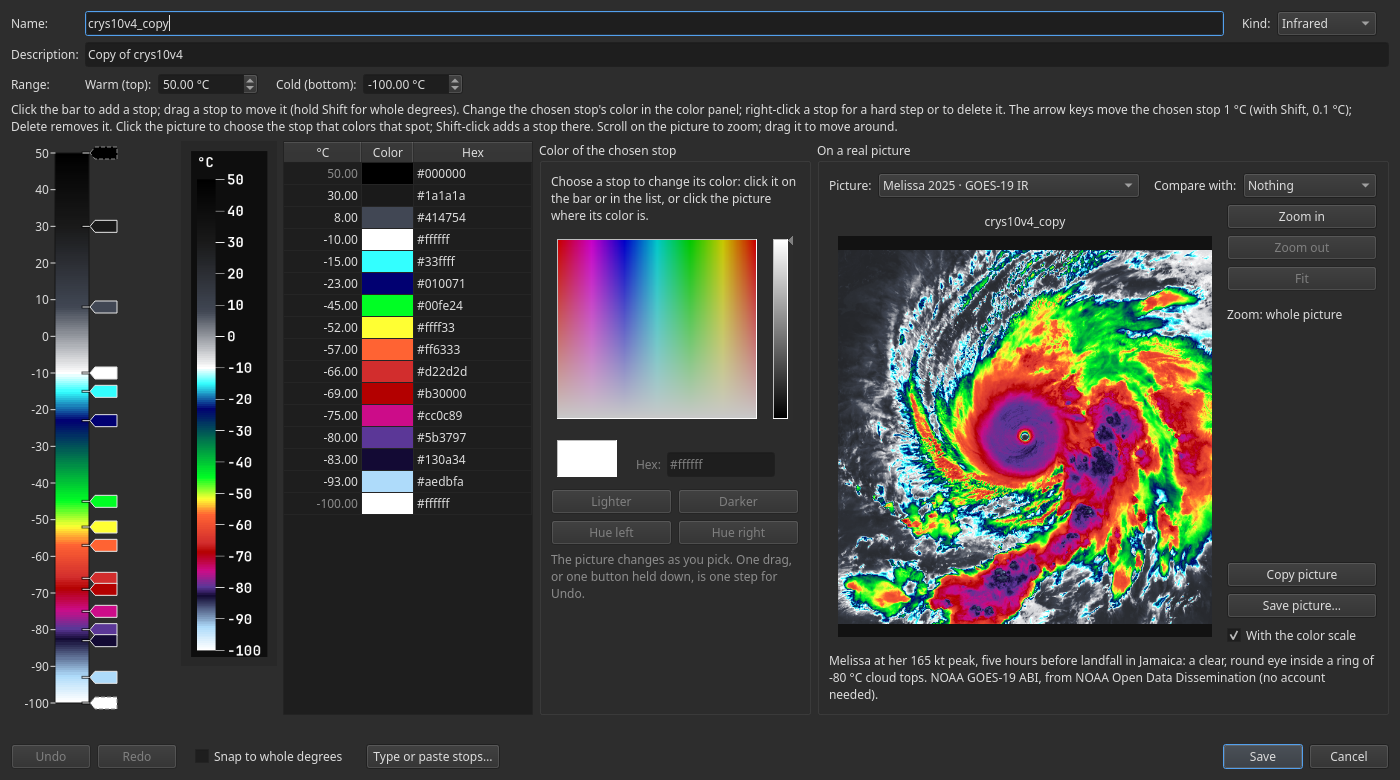
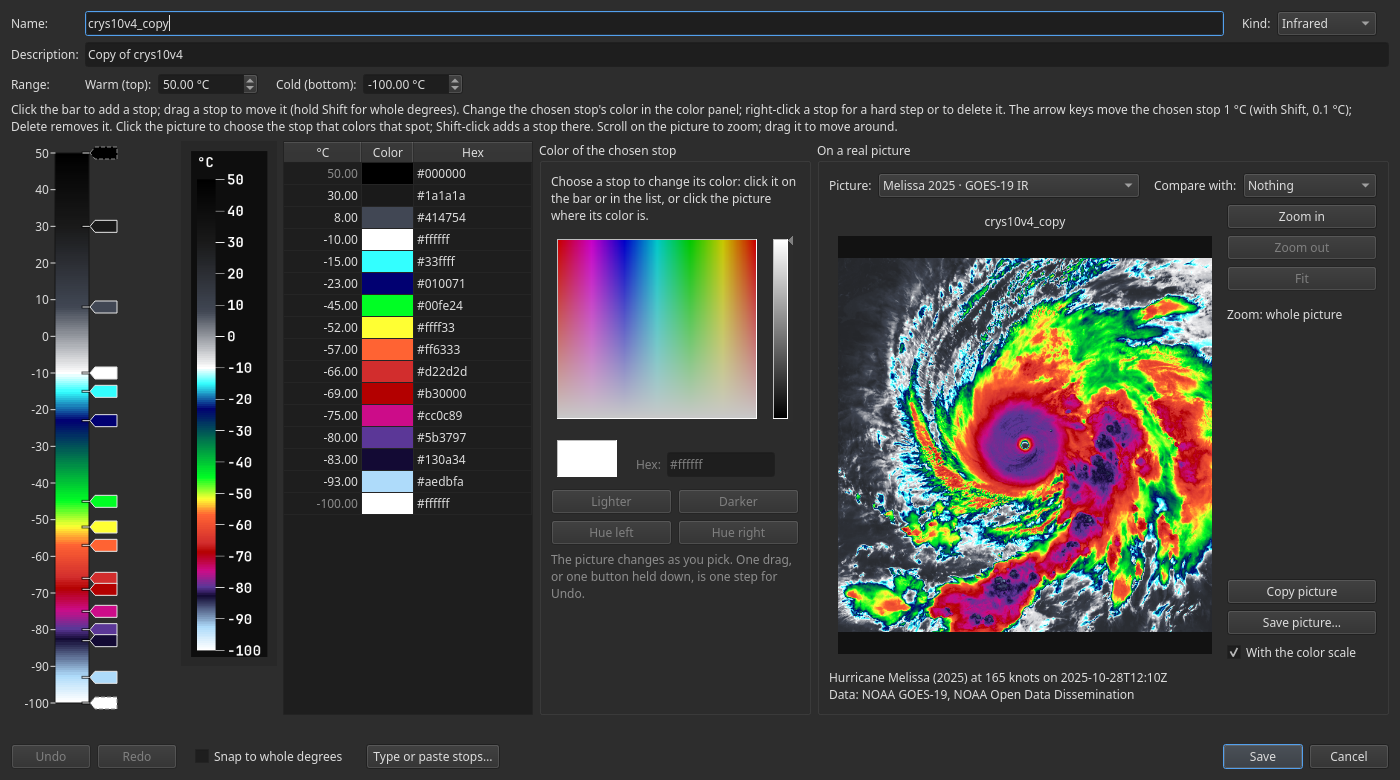
Update from tcviz f59c968

Changed region(s): [[0.5836, 0.3077, 0.9829, 0.8923]]

diff --git a/tcviz/colortable_preview.py b/tcviz/colortable_preview.py
@@ -444,11 +444,6 @@ def _sample_label(raw):
     return " · ".join(p for p in (storm, taken) if p)
 
 
-def _sentence(text):
-    text = text.strip()
-    return text if text.endswith((".", "!", "?")) else f"{text}."
-
-
 def _when_words(when):
     try:
         return datetime.datetime.fromisoformat(str(when).replace("Z", "+00:00")).strftime("%Y-%m-%d %H:%M UTC")
@@ -482,9 +477,10 @@ def load_bundled(sample, max_pixels=MAX_PIXELS):
     band = str(raw.get("band") or "")
     if picture_kind(band, units) != sample.kind:
         band = "WV" if sample.kind == "wv" else "IR"
-    # each its own sentence: a credit like "... from NOAA Open Data Dissemination (no account
-    # needed)" has no full stop, and the editor puts more after it
-    note = " ".join(_sentence(p) for p in (sample.description, sample.credit) if p.strip()) or None
+    # the title ("Hurricane Melissa (2025) at 165 knots on 2025-10-28T12:10Z") and the data
+    # source each on a line of its own, as the author asked (2026-10-03); neither ends in a
+    # full stop, so they are not run together into one sentence
+    note = "\n".join(p.strip() for p in (sample.description, sample.credit) if p.strip()) or None
     return PreviewSource(values, band=band, label=sample.label, max_pixels=max_pixels, units=units, note=note)
 
 

diff --git a/tests/test_colortable_edition.py b/tests/test_colortable_edition.py
@@ -349,7 +349,7 @@ def test_the_picture_box_lists_the_bundled_samples(qapp, editor_edition, monkeyp
     assert items == ["Melissa 2025 · GOES-19 IR", "Melissa 2025 · GOES-19 water vapor"]
     assert d.picture_combo.currentData() == "bundled:melissa_ir"
     assert d.picture_combo.itemData(0, 3) == SAMPLES[0]["description"]          # Qt.ToolTipRole
-    assert d.picture_note.text().startswith(SAMPLES[0]["description"] + " Picture: NOAA GOES-19.")
+    assert d.picture_note.text().startswith(SAMPLES[0]["description"] + "\nPicture: NOAA GOES-19.")
     assert d._preview.full_shape == (40, 40) and not d._preview.water_vapor
     d._on_picture_combo(1)
     assert d.picture_combo.currentData() == "bundled:melissa_wv" and d._preview.water_vapor

diff --git a/tcviz_gui/pages/colortable_editor_dialog.py b/tcviz_gui/pages/colortable_editor_dialog.py
@@ -1117,7 +1117,7 @@ class ColortableEditorDialog(QDialog):
                              "the colors are exact.")
             if source.water_vapor:
                 notes.append("On a water-vapor picture every table is drawn from 0 to -90 °C.")
-            self.picture_note.setText(" ".join(notes))
+            self.picture_note.setText("\n".join(notes))           # one line each, under the title
         self._fill_picture_combo()
         self._schedule_refresh()
 

diff --git a/README.md b/README.md
@@ -94,33 +94,33 @@ The program comes with 24 real satellite pictures of storms to try your tables o
 
 **Infrared:**
 
-- **Melissa, 2025** (Atlantic; GOES-19 ABI, 2.3 km pixels): Melissa at her 165 kt peak, five hours before landfall in Jamaica: a clear, round eye inside a ring of -80 °C cloud tops.
-- **Polo, 2026** (East Pacific; NOAA-20 VIIRS, 375 m pixels): Polo at its 155 kt peak, seen almost straight down by NOAA-20: a warm eye near +23 °C in a solid ring of -70 to -80 °C cloud, at 375 m.
-- **Milton, 2024** (Atlantic; GOES-16 ABI, 2.6 km pixels): Milton at its 155 kt peak in the Gulf: a pinhole eye only about 12 km across, a few pixels wide, inside -80 °C tops.
-- **Nolo, 2026** (Central Pacific; NOAA-20 VIIRS, 375 m pixels): Nolo at its 135 kt peak southwest of Hawaii, at night: a wide, round eye about 50 km across, with eyewall tops as cold as -89 °C, at 375 m.
-- **Milton, 2024** (Atlantic; NOAA-21 VIIRS, 375 m pixels): Milton near its 155 kt peak in the Gulf, seen by NOAA-21 at 375 m: a pinhole eye about 14 km across, warmer than +20 °C, inside a ring of -80 °C tops.
-- **Polo, 2026** (East Pacific; NOAA-21 VIIRS, 375 m pixels): Polo at night, strengthening fast from 120 to 140 kt twelve hours before the daytime Polo sample: a small eye about 12 km across in a ring of -78 °C tops, at 375 m.
-- **Haiyan, 2013** (West Pacific; S-NPP VIIRS, 375 m pixels): Haiyan near its 170 kt peak, four hours before landfall in the Philippines: 92% of the cloud within 150 km of the center is at or below -81 °C (Dvorak's CDG), around a clear eye; the swath ends in the west of the box.
-- **Haiyan, 2013** (West Pacific; Terra MODIS, 1.0 km pixels): Haiyan at 165 kt, seven hours before landfall in the Philippines, at 1 km: 92% of the cloud within 150 km of the center is at or below -81 °C (Dvorak's CDG), around a clear eye.
-- **Yutu, 2018** (West Pacific; GCOM-C SGLI, 250 m pixels): Yutu at its 155 kt peak, hours before its eye crossed Tinian, at 250 m: a clear eye about 40 km across in -82 °C tops; SGLI's scenes leave the box's south and east edges empty.
-- **Nepartak, 2016** (West Pacific; Aqua MODIS, 1.0 km pixels): Nepartak near its 150 kt peak southeast of Taiwan, at 1 km: a small, clear eye about 17 km across and warmer than +28 °C, in a ring of -80 °C tops.
-- **Mocha, 2023** (North Indian Ocean; NOAA-20 VIIRS, 375 m pixels): Mocha at 130 kt and strengthening in the Bay of Bengal, half a day before landfall in Myanmar: 89% of the cloud within 150 km of the center is at or below -81 °C (Dvorak's CDG), around a small cloud-filled eye.
-- **Narelle, 2026** (South Pacific; NOAA-21 VIIRS, 375 m pixels): Narelle at about 95 kt and strengthening fast in the Coral Sea: 69% of the cloud within 150 km of the center is at or below -81 °C (Dvorak's CDG), in a compact central dense overcast with tops to -98 °C.
-- **Genevieve, 2026** (East Pacific; GOES-18 ABI, 2.6 km pixels): Genevieve near its 140 kt peak: a clear eye about 35 km across inside a thick ring of -70 to -76 °C cloud tops.
-- **Lala, 2026** (Central Pacific; GOES-18 ABI, 3.0 km pixels): Lala at its 115 kt peak west of Hawaii: a small eye about 33 km across in a compact ring of cloud tops no colder than -74 °C.
-- **Rachel, 2026** (East Pacific; GOES-18 ABI, 2.9 km pixels): Tropical Storm Rachel at 60 kt, six hours before it became a hurricane: a big central dense overcast with tops below -90 °C, the center near its northern edge.
-- **Katrina, 2005** (Atlantic; GOES-12 Imager, 4.5 km pixels): Katrina at its 150 kt peak in the Gulf, the day before landfall in Louisiana: a clear eye in a wide ring of cold cloud, from GOES-12 on NCEI's 4 km GridSat-GOES grid.
-- **Elida, 2026** (East Pacific; GOES-18 ABI, 2.4 km pixels): Tropical Storm Elida at 55 kt, ragged and sheared: its center sits under ragged cloud between bursts of thunderstorms, the biggest, with tops near -88 °C, about 300 km to the south-southwest.
-- **Five (later Edouard), 2026** (Atlantic; GOES-19 ABI, 2.9 km pixels): Tropical Depression Five off Louisiana at 30 kt, six hours before it became Tropical Storm Edouard: a loose curl of showers and a few small thunderstorms near the center, with no organized core.
-- **Fausto, 2026** (Central Pacific; GOES-18 ABI, 2.7 km pixels): What was left of Fausto north of Hawaii, hours after it became a 30 kt remnant low: a bare swirl of warm low cloud with no thunderstorms at its center.
+- **Hurricane Melissa (2025) at 165 knots on 2025-10-28T12:10Z** (Atlantic; GOES-19 ABI, 2.3 km pixels)
+- **Hurricane Polo (2026) at 150 knots on 2026-09-22T20:07Z** (East Pacific; NOAA-20 VIIRS, 375 m pixels)
+- **Hurricane Milton (2024) at 155 knots on 2024-10-07T20:00Z** (Atlantic; GOES-16 ABI, 2.6 km pixels)
+- **Hurricane Nolo (2026) at 135 knots on 2026-09-28T12:09Z** (Central Pacific; NOAA-20 VIIRS, 375 m pixels)
+- **Hurricane Milton (2024) at 155 knots on 2024-10-07T19:19Z** (Atlantic; NOAA-21 VIIRS, 375 m pixels)
+- **Hurricane Polo (2026) at 125 knots on 2026-09-22T08:03Z** (East Pacific; NOAA-21 VIIRS, 375 m pixels)
+- **Super Typhoon Haiyan (2013) at 170 knots on 2013-11-07T16:19Z** (West Pacific; S-NPP VIIRS, 375 m pixels)
+- **Super Typhoon Haiyan (2013) at 165 knots on 2013-11-07T13:49Z** (West Pacific; Terra MODIS, 1.0 km pixels)
+- **Super Typhoon Yutu (2018) at 155 knots on 2018-10-24T12:31Z** (West Pacific; GCOM-C SGLI, 250 m pixels)
+- **Super Typhoon Nepartak (2016) at 150 knots on 2016-07-06T04:50Z** (West Pacific; Aqua MODIS, 1.0 km pixels)
+- **Cyclone Mocha (2023) at 135 knots on 2023-05-13T19:52Z** (North Indian Ocean; NOAA-20 VIIRS, 375 m pixels)
+- **Cyclone Narelle (2026) at 95 knots on 2026-03-18T15:22Z** (South Pacific; NOAA-21 VIIRS, 375 m pixels)
+- **Hurricane Genevieve (2026) at 140 knots on 2026-07-27T08:40Z** (East Pacific; GOES-18 ABI, 2.6 km pixels)
+- **Hurricane Lala (2026) at 115 knots on 2026-08-19T05:20Z** (Central Pacific; GOES-18 ABI, 3.0 km pixels)
+- **Tropical Storm Rachel (2026) at 60 knots on 2026-09-30T00:00Z** (East Pacific; GOES-18 ABI, 2.9 km pixels)
+- **Hurricane Katrina (2005) at 150 knots on 2005-08-28T17:45Z** (Atlantic; GOES-12 Imager, 4.5 km pixels)
+- **Tropical Storm Elida (2026) at 55 knots on 2026-07-17T03:40Z** (East Pacific; GOES-18 ABI, 2.4 km pixels)
+- **Tropical Depression Five (2026) at 30 knots on 2026-08-31T18:00Z** (Atlantic; GOES-19 ABI, 2.9 km pixels)
+- **Remnant Low Fausto (2026) at 30 knots on 2026-07-29T20:30Z** (Central Pacific; GOES-18 ABI, 2.7 km pixels)
 
 **Water vapor:**
 
-- **Melissa, 2025** (Atlantic; GOES-19 ABI, 2.3 km pixels): Melissa at her 165 kt peak in upper-level water vapor: the eye in a broad moist shield, with outflow cirrus fanning out to its north and west.
-- **Milton, 2024** (Atlantic; GOES-16 ABI, 2.6 km pixels): Milton at 135 kt, about 12 hours before landfall in Florida: dry air to its west and south wrapping in toward the core.
-- **Genevieve, 2026** (East Pacific; GOES-18 ABI, 2.7 km pixels): Genevieve at 115 kt and strengthening fast, in mid-level water vapor: a small eye, moist spiral bands and drier air to the northwest.
-- **Lowell, 2026** (Central Pacific; GOES-18 ABI, 2.3 km pixels): Lowell at 130 kt in lower-level water vapor: a compact moist core with an eye, surrounded by very dry air.
-- **Katrina, 2005** (Atlantic; GOES-12 Imager, 4.5 km pixels): Katrina at her 150 kt peak in water vapor, from GOES-12 on NCEI's 4 km GridSat-GOES grid: the eye in a broad moist shield, dry air to the west.
+- **Hurricane Melissa (2025) at 165 knots on 2025-10-28T12:00Z** (Atlantic; GOES-19 ABI, 2.3 km pixels)
+- **Hurricane Milton (2024) at 135 knots on 2024-10-09T12:00Z** (Atlantic; GOES-16 ABI, 2.6 km pixels)
+- **Hurricane Genevieve (2026) at 115 knots on 2026-07-26T18:40Z** (East Pacific; GOES-18 ABI, 2.7 km pixels)
+- **Hurricane Lowell (2026) at 130 knots on 2026-09-02T12:00Z** (Central Pacific; GOES-18 ABI, 2.3 km pixels)
+- **Hurricane Katrina (2005) at 150 knots on 2005-08-28T17:45Z** (Atlantic; GOES-12 Imager, 4.5 km pixels)
 
 Sample pictures: NOAA GOES, and NOAA-20, NOAA-21 and Suomi NPP VIIRS, from NOAA Open Data Dissemination; GOES-12 (Katrina 2005) from NOAA NCEI's GridSat-GOES; NASA Terra and Aqua MODIS and Suomi NPP VIIRS (Haiyan 2013) from NASA LAADS DAAC; GCOM-C SGLI (Yutu 2018) from JAXA G-Portal. Original data for this value added data product was provided by Japan Aerospace Exploration Agency.
 
